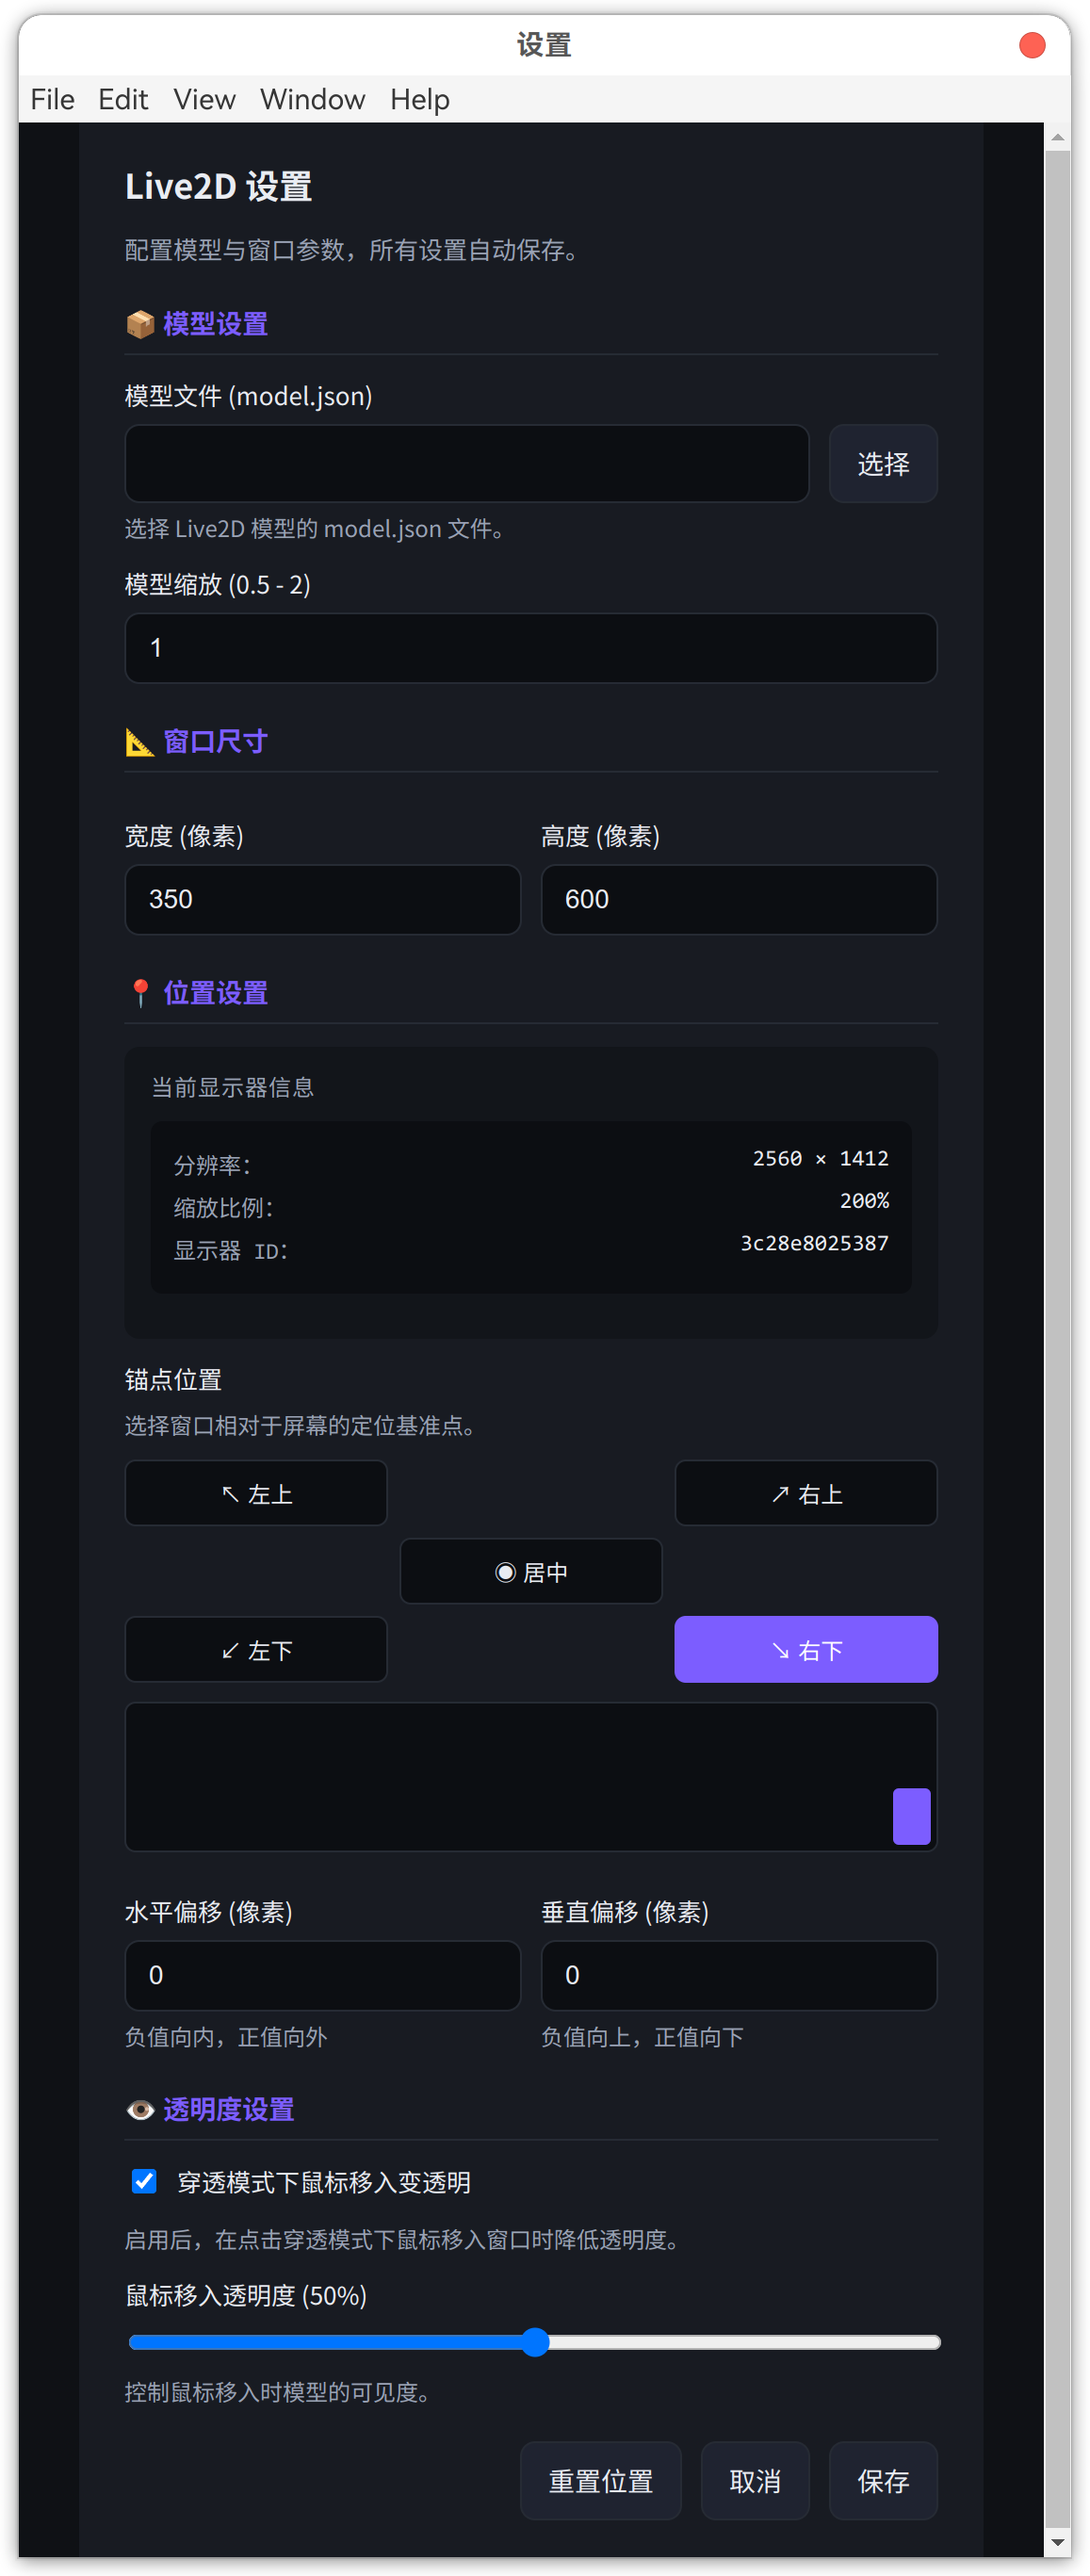
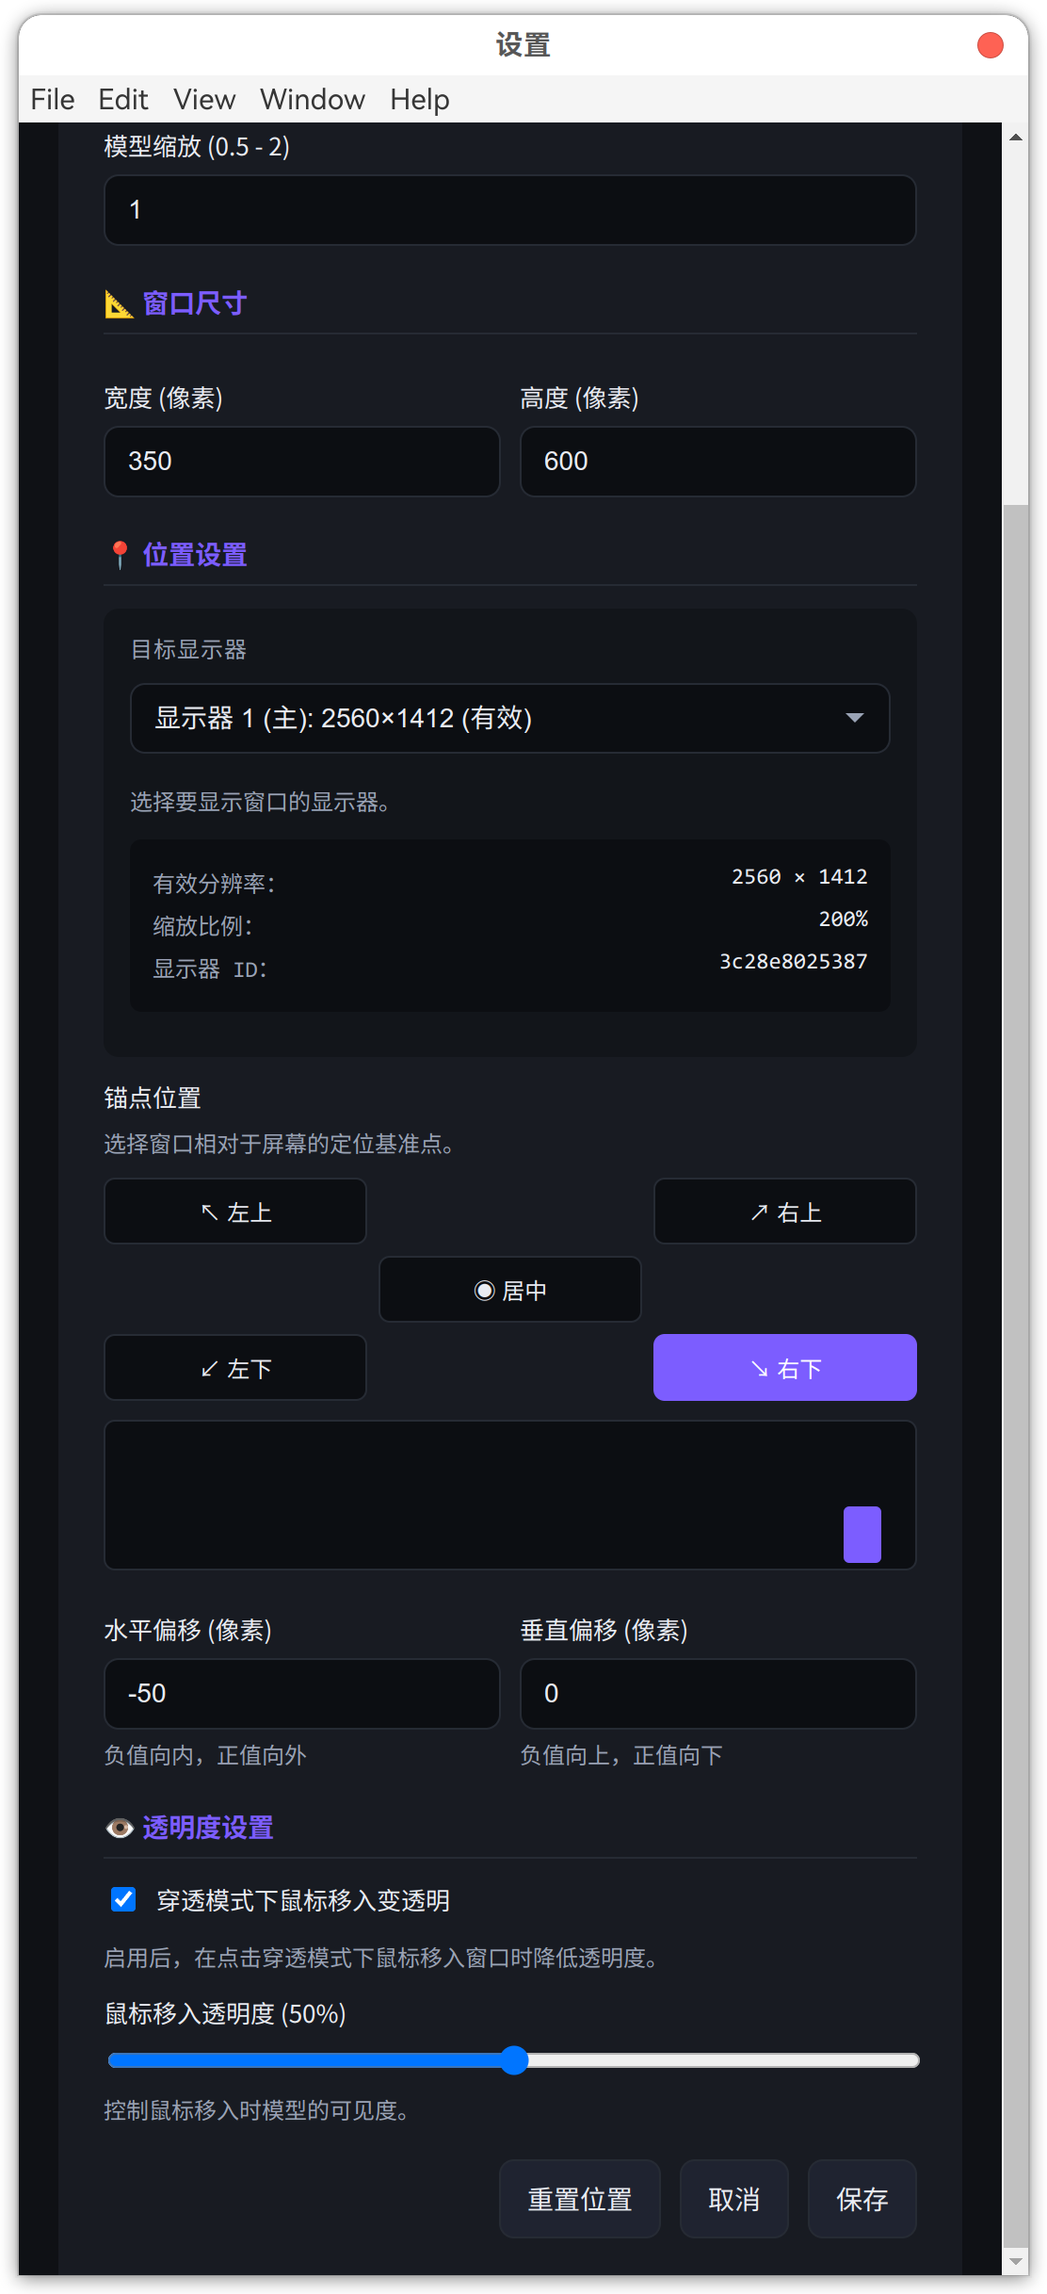
update doc

diff --git a/scripts/settings.js b/scripts/settings.js
@@ -94,10 +94,8 @@ function populateDisplaySelector(currentDisplay) {
         const opt = document.createElement('option');
         opt.value = display.fingerprint;
         const primary = display.isPrimary ? ' (主)' : '';
-        // 显示物理分辨率（更稳定的标识）
-        const physW = display.bounds?.width || display.logicalWidth;
-        const physH = display.bounds?.height || display.logicalHeight;
-        opt.textContent = `显示器 ${index + 1}${primary}: ${physW}×${physH}`;
+        // 显示缩放后的有效尺寸（Chromium 限制无法获取真实物理分辨率）
+        opt.textContent = `显示器 ${index + 1}${primary}: ${display.logicalWidth}×${display.logicalHeight} (有效)`;
         
         if (currentDisplay && display.fingerprint === currentDisplay.fingerprint) {
             opt.selected = true;

diff --git a/README.md b/README.md
@@ -43,12 +43,14 @@ This project is **focused solely on Live2D itself**.
 
 - **多显示器配置档案系统** — 每个显示器独立保存窗口位置和大小
   Multi-monitor profile system with independent settings per display
+- **显示器选择器** — 可在设置界面中手动选择目标显示器，窗口会自动移动
+  Display selector in settings for manual target selection
 - **锚点定位系统** — 基于屏幕边角的智能定位（右下、右上、左下、左上、居中）
   Anchor-based positioning (bottom-right, top-right, bottom-left, top-left, center)
 - **DPI 缩放自适应** — 自动适配显示器缩放比例变化
   Automatic DPI scaling adaptation
-- **热插拔支持** — 自动响应显示器添加/移除/分辨率变化
-  Hot-plug support with automatic repositioning
+- **热插拔支持** — 自动响应显示器添加/移除/分辨率变化，设置界面实时刷新
+  Hot-plug support with automatic repositioning and live settings update
 - **完整的调试日志** — 控制台输出详细的显示器信息和位置计算过程
   Comprehensive debug logging for display metrics and positioning
 
@@ -112,14 +114,18 @@ npm start
    Right-click the system tray icon and select “Settings”
 3. 在设置窗口中可进行以下配置：
    Available options in the settings window:
+   - **目标显示器** — 选择窗口显示的屏幕（多显示器环境）
+     Target display selection (multi-monitor setup)
    - **模型选择**（`model.json`）
      Model selection (`model.json`)
    - **模型缩放**（0.5–2.0）
      Model scaling (0.5–2.0)
    - **窗口尺寸**
      Window width and height
-   - **窗口位置**（留空自动定位）
-     Window position (auto if empty)
+   - **锚点位置** — 9宫格定位点（替代原坐标设置）
+     Anchor position (9-point grid, replaces manual coordinates)
+   - **偏移量** — 相对锚点的微调位置
+     Offset from anchor point
    - **自动变透明**（点击穿透模式）
      Auto transparency in click-through mode
    - **透明度控制**（0–100%）
@@ -244,26 +250,27 @@ live2d-desktop/
   - 分辨率变化 / Resolution changes
 
 > ⚠ **缩放比例限制 / Scaling Limitation**
-> 
-> Electron/Chromium 在 Linux（尤其是 X11/Wayland）环境下仅能识别 **整数倍缩放**（100%、200% 等）。
-> 
-> **影响：**
-> - 分数缩放（如 125%、150%、175%）会被近似为最接近的整数倍
-> - 多显示器使用不同分数缩放时，可能显示相同的缩放比例（如都显示 200%）
-> - 设置界面显示的"有效分辨率"可能与系统设置不一致
-> - 显示器选择器显示的是物理分辨率，更便于识别
-> 
-> 这是 Chromium 的已知限制，非本应用问题。
 >
-> Electron/Chromium on Linux (especially X11/Wayland) only recognizes **integer scaling factors** (100%, 200%, etc.).
-> 
+> Electron/Chromium 在 Linux 环境下仅能识别 **整数倍缩放**（100%、200% 等）。
+>
+> **影响：**
+>
+> - 分数缩放（如 125%、150%、175%）会被读取为整数倍
+> - 多显示器使用不同分数缩放时，可能显示相同的缩放比例（如都显示 200%）
+> - 无法获取真实物理分辨率，只能获取缩放后的有效分辨率
+> - 设置界面显示的分辨率和缩放比例可能与系统设置不一致
+>
+> 这是 Chromium 的已知限制，非本应用问题。应用已尽可能适配此限制。
+>
+> Electron/Chromium on Linux  only recognizes **integer scaling factors** (100%, 200%, etc.).
+>
 > **Impact:**
-> - Fractional scaling (e.g., 125%, 150%, 175%) is approximated to the nearest integer
+> - Fractional scaling (e.g., 125%, 150%, 175%) is approximated to the integer
 > - Multiple monitors with different fractional scaling may show the same scale factor
-> - "Effective resolution" in settings may differ from system settings
-> - Display selector shows physical resolution for easier identification
-> 
-> This is a known Chromium limitation, not an issue with this application.
+> - Cannot get actual physical resolution, only scaled effective resolution
+> - Resolution and scaling shown in settings may differ from system settings
+>
+> This is a known Chromium limitation, not an issue with this application. The app adapts to this limitation as best as possible.
 
 ------
 
@@ -299,27 +306,6 @@ npm start
 # 打包 Linux AppImage / Build Linux AppImage
 npm run dist
 ```
-
-------
-
-## 更新日志 / Changelog
-
-**v2.0 — 显示器管理系统**
-
-**新增功能：**
-
-- 多显示器配置档案系统
-- 基于锚点的窗口定位机制
-- 设置界面实时位置预览
-- DPI 缩放自适应
-- 显示器热插拔支持
-- 完整的显示器与位置调试日志
-
-**改进内容：**
-
-- 设置界面结构优化，参数配置更直观
-- 窗口位置管理稳定性提升
-- Canvas 尺寸调整逻辑优化
 
 ------
 
